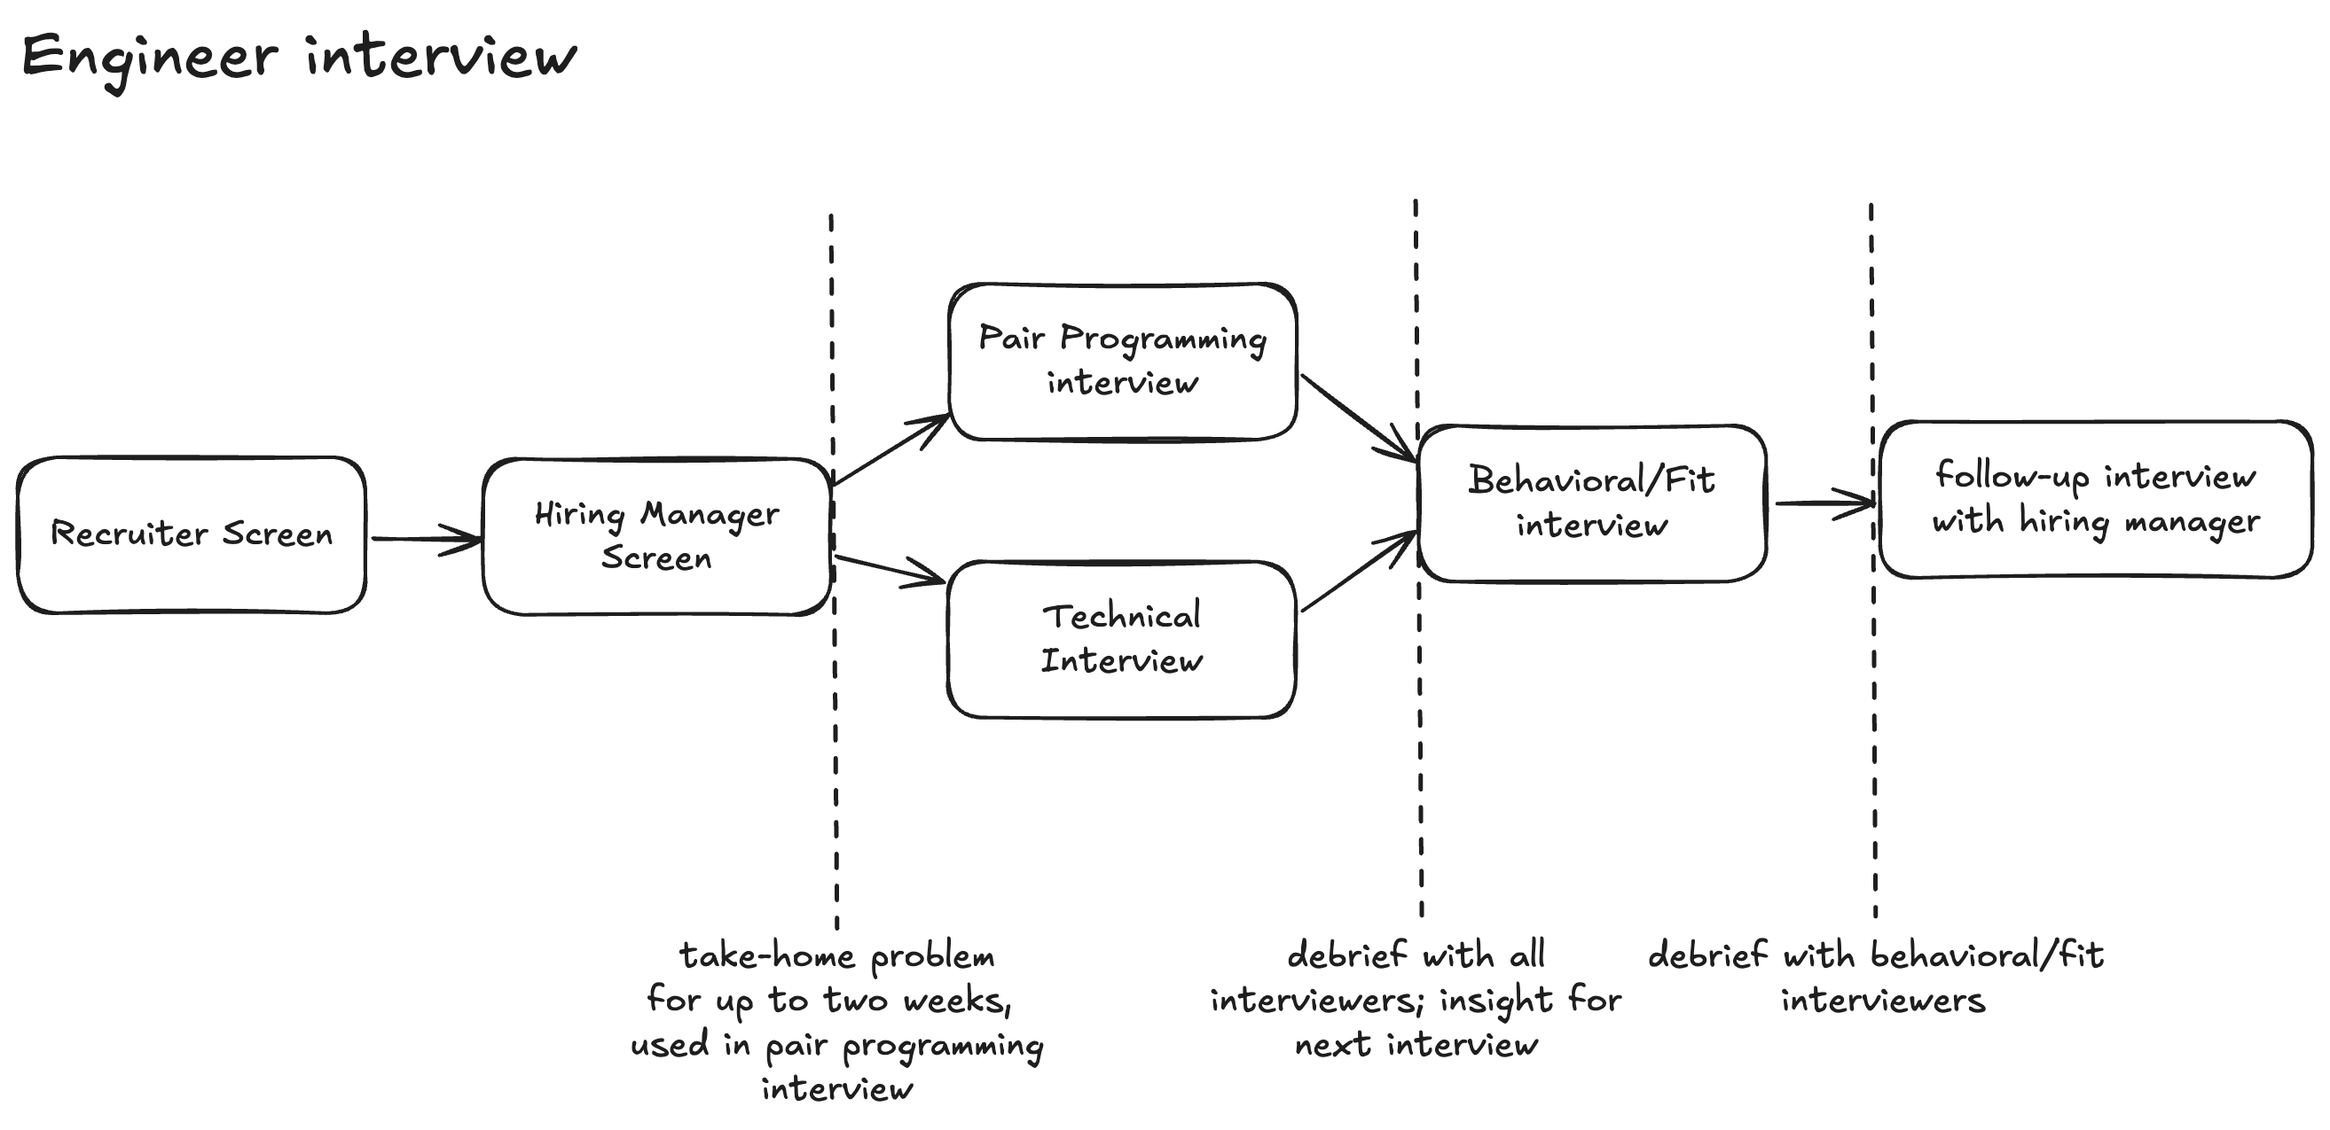
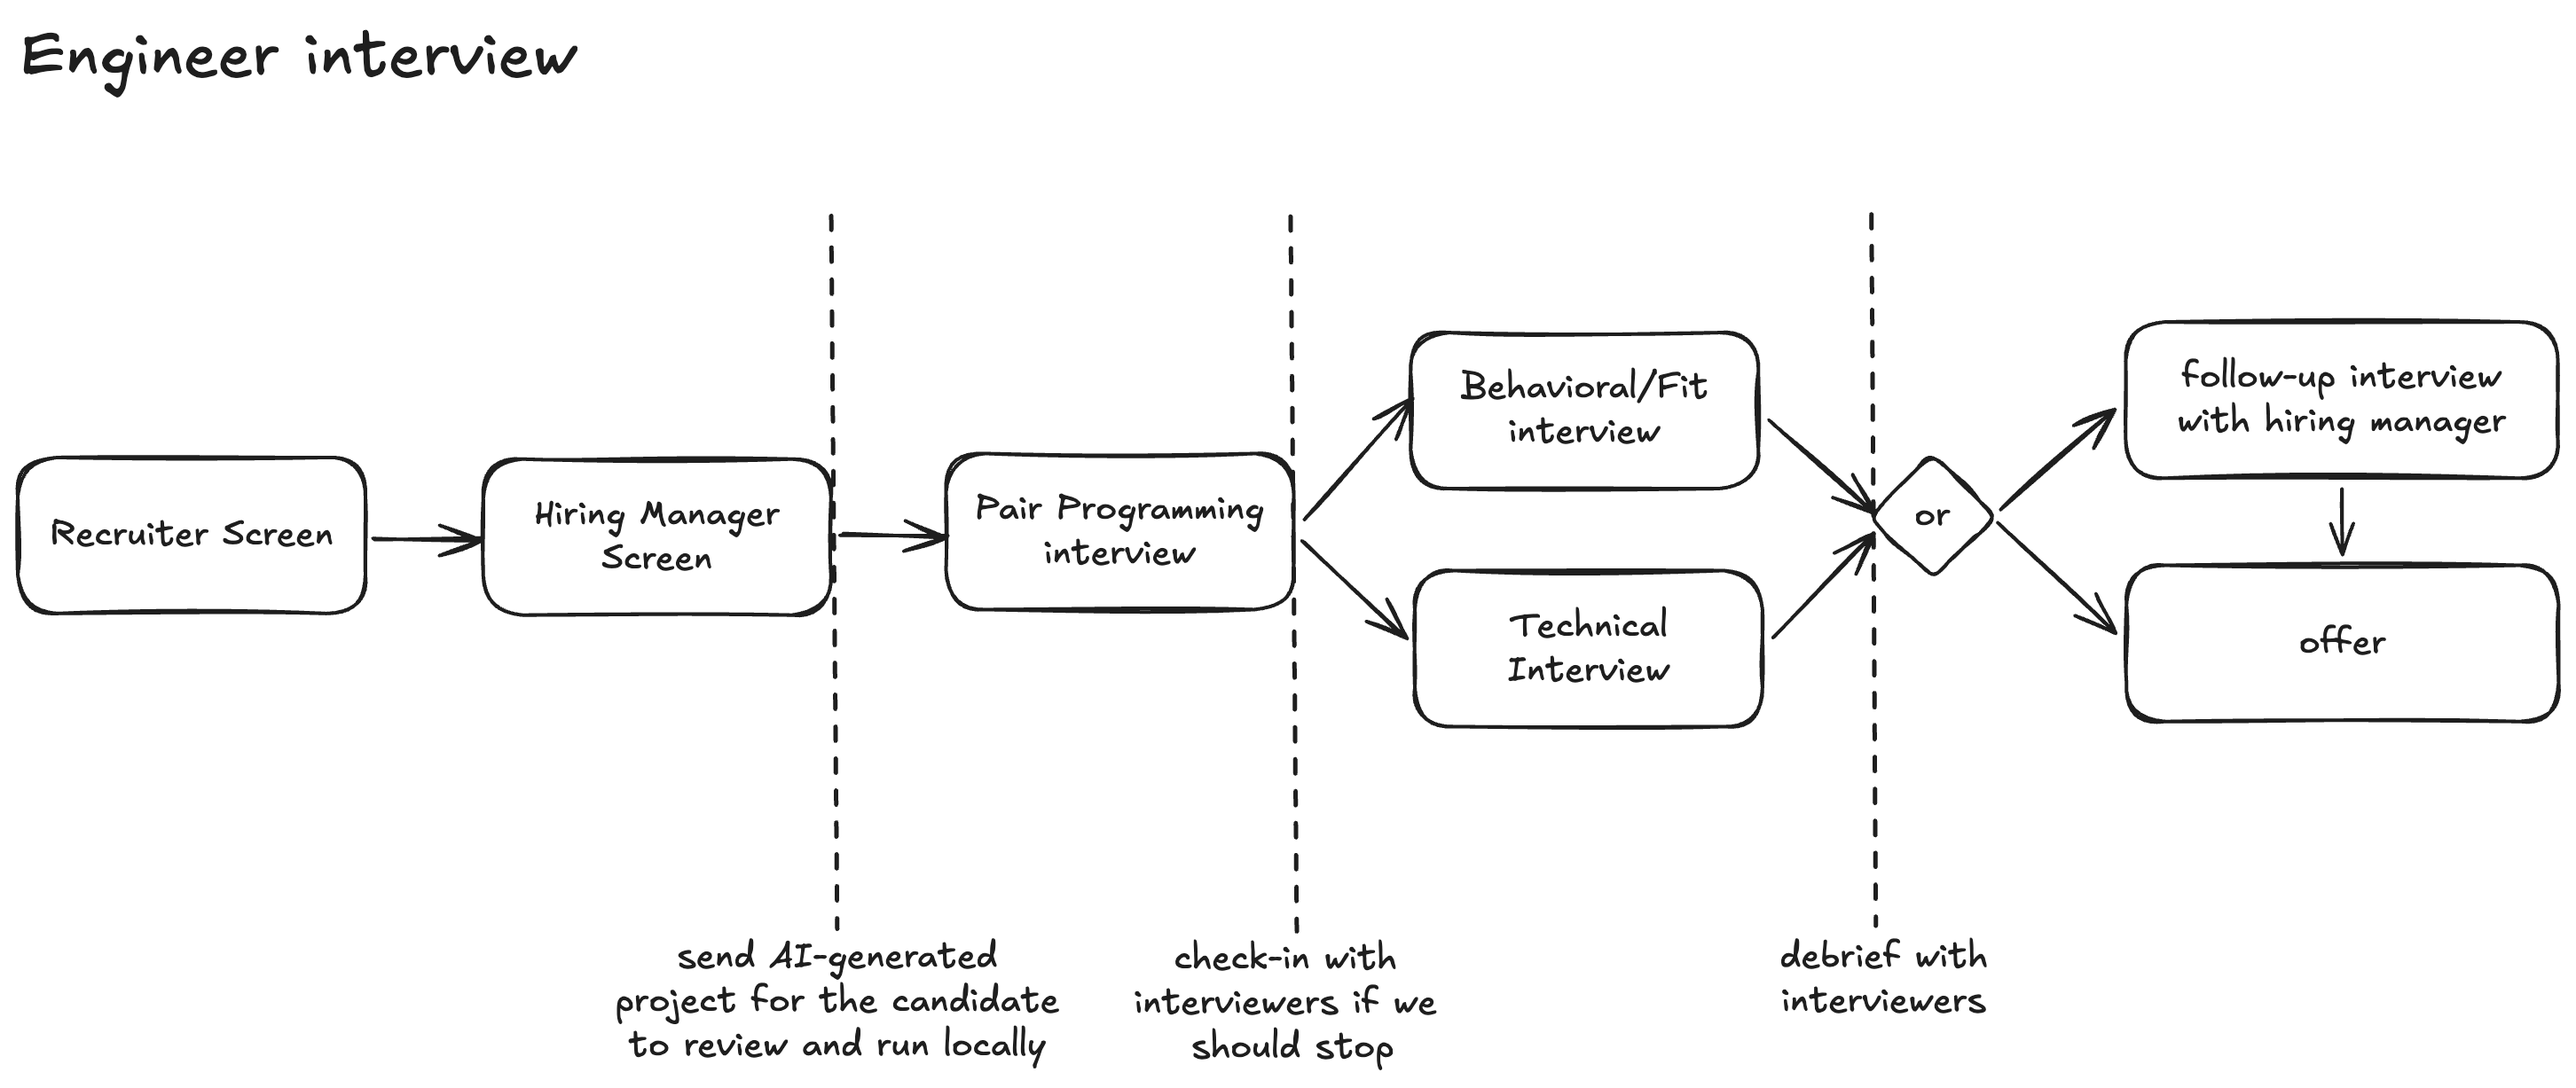
Hide recruiting while I work on it

diff --git a/src/content/playbook/recruiting/engineer-interview.md b/src/content/playbook/recruiting/engineer-interview.md
@@ -1,8 +1,9 @@
 ---
 title: Engineer Interview Process
 section: Recruiting
-description: A three-stage interview workflow for evaluating software engineers, including guidance on pair programming formats.
+description: An interview workflow for evaluating software engineers
 order: 1
+draft: true
 ---
 
 ![interview workflow](/images/playbook/engineer_workflow.png)
@@ -21,32 +22,25 @@ Focus: communication clarity, behavioral signals, and role comprehension.
 
 Focus: technical principles, design pattern familiarity, and architectural reasoning.
 
-- Can the candidate explain *why* they made technical decisions, not just *what* they did?
-- Do they understand design patterns well enough to know when *not* to use them?
-- Can they reason about system tradeoffs under constraints?
+1. Explain the outline of the interview and introduce yourself 
+2. Have the candidate provide a brief intro and tell me why you want the role.
+3. Ask about experiences for "interview-able" [expectations](../career-management/expectations.md). 
+  * Look for specific examples and enough context for follow up questions. This helps ensure they will be successful in future interviews.
+4. Open it up for questions for the candidate. 
 
-For candidates at SE4 and above, a take-home assignment is included at this stage.
+### 3. Pair Programming 
 
-### 3. Pair Programming & Technical Interview
+The pair programming session is the most signal-rich part of the process. The goal is not to watch someone solve a puzzle it's to see how they think, communicate, and respond to feedback in a collaborative setting.
 
-The pair programming session is the most signal-rich part of the process. The goal is not to watch someone solve a puzzle — it's to see how they think, communicate, and respond to feedback in a collaborative setting.
 
-## Pair Programming Approaches
+### 4. Technical Interview
 
-Three approaches are common, each with real tradeoffs:
 
-**Option 1 — Online Coding Platforms** (e.g., CoderPad, HackerRank)
+### 5. Behavioral/Fit Interview
 
-Standardized and easy to administer. The downside is limited problem variety and an artificial environment that doesn't reflect how the team actually works. Candidates with platform familiarity have a structural advantage.
 
-**Option 2 — Scaffolded Internal Project**
+### 6. (optional) Follow up interview with hiring manager
 
-A purpose-built repo the team maintains for interviews. More realistic, more flexible, and shows candidates what it's actually like to work in your codebase. The cost is ongoing maintenance and the need to refresh the problem set over time.
 
-**Option 3 — Take-Home Assignment**
+### 7. Offer
 
-A real problem (sanitized) from internal work, given in advance. Yields the most authentic signal — you see how someone approaches a problem with adequate time, not under artificial pressure. Lower maintenance than a scaffolded project.
-
-The main concern with take-homes is equity: candidates with significant non-work obligations are disadvantaged by async formats. Mitigate this by keeping scope tight and being explicit about expected time investment.
-
-**Recommendation:** Option 3 yields the best, most consistent signal when the problem is drawn from real work the team has done. The familiarity helps interviewers evaluate the response more accurately.

diff --git a/src/content/playbook/recruiting/pair-programing-interview-prompt.md b/src/content/playbook/recruiting/pair-programing-interview-prompt.md
@@ -1,0 +1,8 @@
+---
+title: Pair Programming question
+section: Recruiting
+description: A pair programming interview prompt.
+order: 1
+draft: true
+---
+
